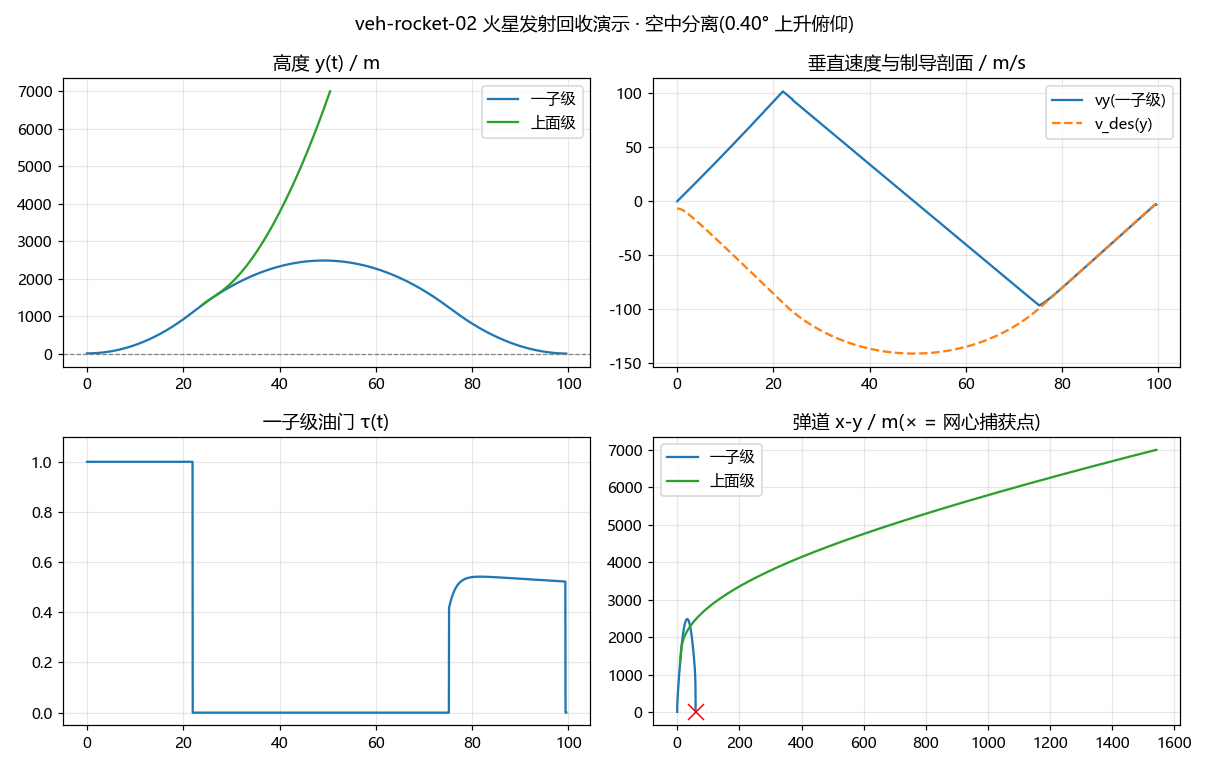
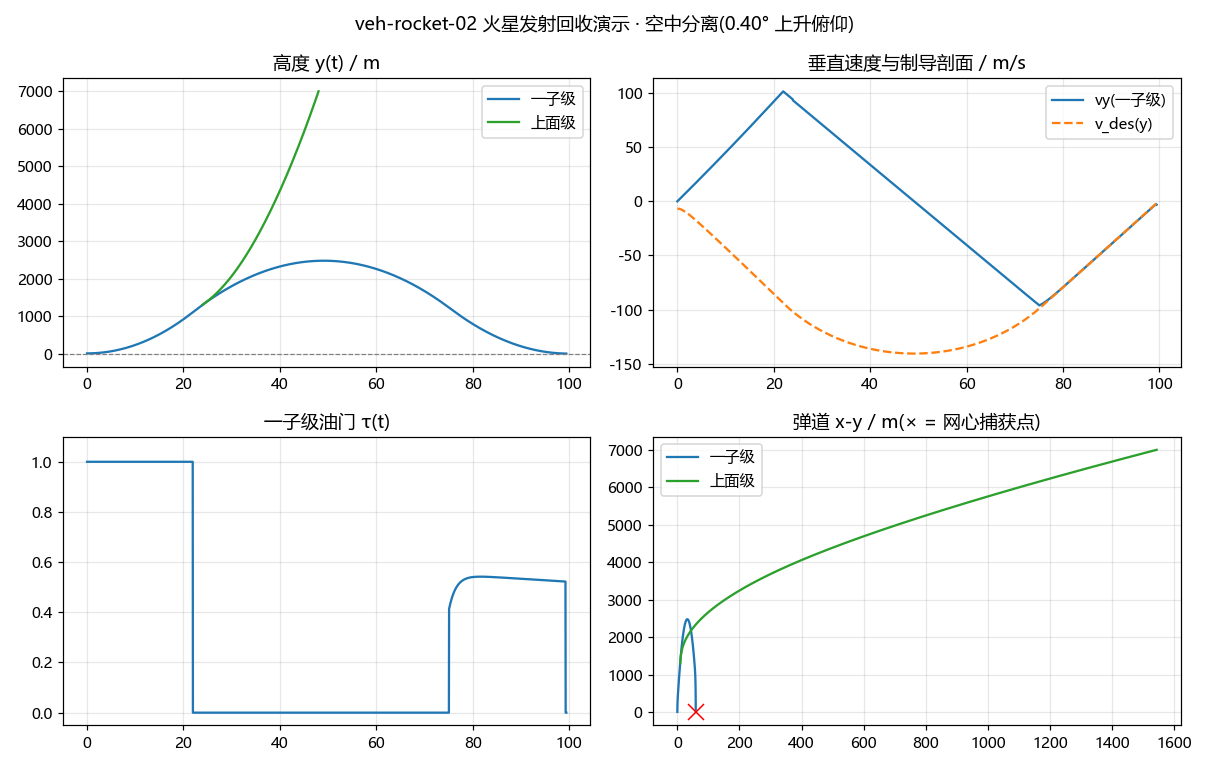
feat: glowing E-portal markers at every enterable spot; CZ-10B sim retune

diff --git a/viewer/main.js b/viewer/main.js
@@ -1541,6 +1541,47 @@ const INTERIOR_DOORS = [
     entry: { pos: [4.6, 0, -15.5], yaw: Math.PI } },
 ];
 let nearDoor = null;
+
+// enterable-spot markers: breathing ring + falling chevrons + light pillar +
+// floating name tag at every E-key zone; amber variant marks the way back out.
+// Driven from PORTALS / INTERIOR_DOORS, so new doors get marked automatically.
+function makePortalMarker(label, color, r = 1.9, h = 4.6, tagColor = '#bfeaff') {
+  const g = new THREE.Group();
+  const ringMat = new THREE.MeshBasicMaterial({ color, transparent: true,
+    opacity: 0.55, side: THREE.DoubleSide, depthWrite: false });
+  const ring = new THREE.Mesh(new THREE.RingGeometry(r * 0.78, r, 40), ringMat);
+  ring.rotation.x = -Math.PI / 2;
+  ring.position.y = 0.07;
+  const disc = new THREE.Mesh(new THREE.CircleGeometry(r * 0.74, 40),
+    new THREE.MeshBasicMaterial({ color, transparent: true, opacity: 0.1,
+      side: THREE.DoubleSide, depthWrite: false }));
+  disc.rotation.x = -Math.PI / 2;
+  disc.position.y = 0.05;
+  const coneMat = new THREE.MeshBasicMaterial({ color, transparent: true, opacity: 0.95 });
+  const chevrons = new THREE.Group();
+  for (let i = 0; i < 2; i++) {
+    const c = new THREE.Mesh(new THREE.ConeGeometry(0.4, 0.62, 4), coneMat);
+    c.rotation.x = Math.PI;
+    c.position.y = i * 0.8;
+    chevrons.add(c);
+  }
+  chevrons.position.y = h * 0.52;
+  const pillar = new THREE.Mesh(
+    new THREE.CylinderGeometry(0.1, 0.3, h, 12, 1, true),
+    new THREE.MeshBasicMaterial({ color, transparent: true, opacity: 0.16,
+      blending: THREE.AdditiveBlending, depthWrite: false, side: THREE.DoubleSide }));
+  pillar.position.y = h / 2;
+  const tag = textSprite(label, 40, tagColor);
+  tag.scale.set(4.6, 0.58, 1);
+  tag.position.y = h + 0.5;
+  g.add(ring, disc, chevrons, pillar, tag);
+  g.traverse((o) => { o.raycast = () => {}; });
+  g.userData.markerAnim = (t) => {
+    ringMat.opacity = 0.4 + 0.25 * Math.sin(t * 2.4);
+    chevrons.position.y = h * 0.52 + 0.18 * Math.sin(t * 2.4);
+  };
+  return g;
+}
 const fadeEl = document.getElementById('fade');
 const portalPromptEl = document.getElementById('portalPrompt');
 
@@ -1584,6 +1625,21 @@ async function getInterior(id) {
         pick({ ...cm.meta, name_en: cm.meta?.name_en || c.name_en }, 'name') || c.id);
       console.info('[interior-companion] mounted', c.id, 'in', id);
     } catch (err) { console.warn('[interior-companion] failed', c.id, err); }
+  }
+  for (const d of INTERIOR_DOORS) {          // mark this interior's doors
+    if (d.from !== id) continue;
+    const mk = makePortalMarker(pick(d, 'label'), 0x3ec8ff, 1.1, 2.6);
+    mk.position.set(d.pos[0], 0.02, d.pos[1]);
+    group.add(mk);
+    anims.push(mk.userData.markerAnim);
+  }
+  {                                          // amber marker on the way out
+    const ez = a?.exitZone || group.userData.exitZone || { pos: [0, 0], radius: 3 };
+    const mk = makePortalMarker(LANG === 'en' ? 'To surface' : '返回地表',
+      0xffb050, Math.min(ez.radius * 0.6, 1.4), 2.4, '#ffe2b0');
+    mk.position.set(ez.pos[0], 0.02, ez.pos[1]);
+    group.add(mk);
+    anims.push(mk.userData.markerAnim);
   }
   const rec = { id, group, lights, anims, pois,
     meta: { ...mod.meta, name_en: mod.meta?.name_en || a?.name_en },
@@ -1811,6 +1867,12 @@ async function loadScatter(a) {
 
 async function loadUnits() {
   const mf = await manifestP;
+  for (const pt of PORTALS) {                // mark every surface E-portal
+    const mk = makePortalMarker(pick(pt, 'label'), 0x3ec8ff);
+    mk.position.set(pt.pos[0], sampleHeight(pt.pos[0], pt.pos[1]) + 0.05, pt.pos[1]);
+    colonyGroup.add(mk);
+    unitAnims.push(mk.userData.markerAnim);
+  }
   for (const a of mf.assets || []) {
     if (!a.type) continue;                   // registered but not deliverable yet
     if (a.kind === 'scatter') {              // wilderness prop pack (many instances)

diff --git a/scripts/sim_hop_veh_rocket_02.py b/scripts/sim_hop_veh_rocket_02.py
@@ -61,7 +61,9 @@ KV = 0.7
 KPX, KDX, AX_MAX = 0.06, 0.5, 0.6
 TILT_MAX = math.radians(12)
 T_SEP_COAST = 2.0                 # MECO→分离滑行
-T_S2_IGN = 3.0                    # 分离→上面级点火
+T_S2_IGN = 0.5                    # 热分离:解锁与上面级点火近同时(长征系做法,
+                                  #  级间段排气格栅泄压;喷焰把两级果断推开)
+DV_SEP_REL = 2.0                  # 分离弹簧相对速度(冲量按动量守恒分配)
 THR2 = 0.75                       # 上面级油门
 PITCH2_MAX, PITCH2_RATE = math.radians(35), math.radians(2.5)
 DT = 0.02
@@ -134,9 +136,11 @@ def simulate(delta_a, record=False):
                                vx=round(vx, 2), vy=round(vy, 2))
             if nphase == 'sep_coast':
                 t_meco = t
-            if nphase == 'coast':                       # ---- 级间分离 ----
-                sep_state = [x, y, vx, vy + 1.5, M2_WET]  # 上面级 + 弹簧分离冲量
-                state = [x, y, vx, vy - 0.5, m - M2_WET]  # 一子级
+            if nphase == 'coast':                       # ---- 级间热分离 ----
+                m1 = m - M2_WET                           # 弹簧冲量 J 动量守恒分配:
+                J = DV_SEP_REL / (1 / M2_WET + 1 / m1)    # Δv2=+J/m2, Δv1=-J/m1
+                sep_state = [x, y, vx, vy + J / M2_WET, M2_WET]
+                state = [x, y, vx, vy - J / m1, m1]
                 x, y, vx, vy, m = state
             phase = nphase
         if phase in ('coast', 'burn') and prev_vy > 0 >= vy:
